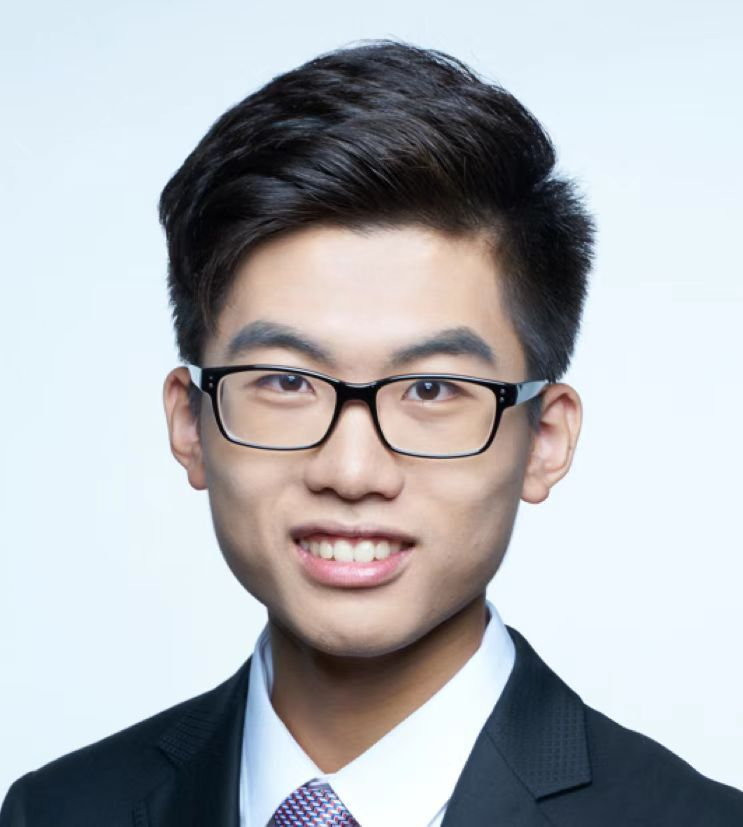
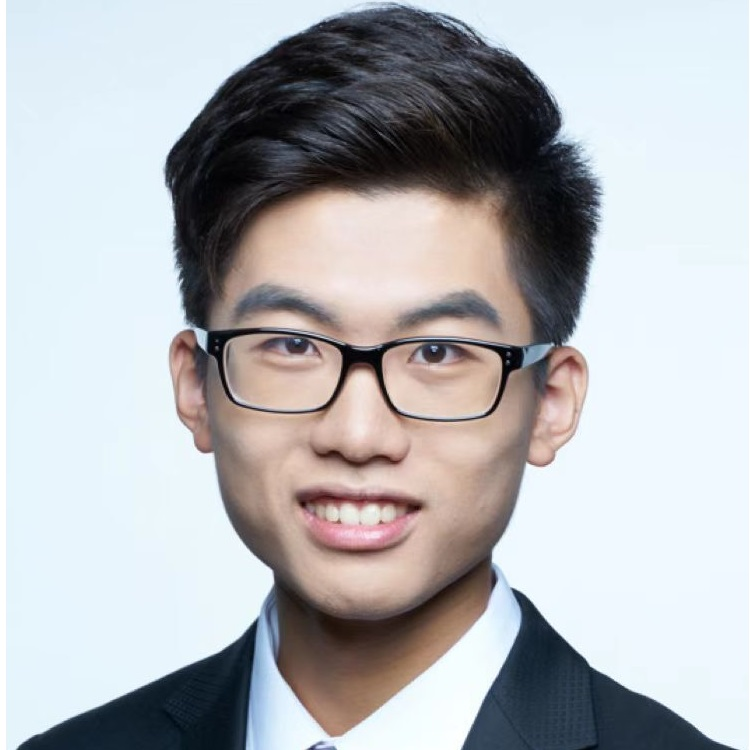
Adding Reza

diff --git a/team/_posts/2023-09-01-reza-torbati.md b/team/_posts/2023-09-01-reza-torbati.md
@@ -1,0 +1,11 @@
+---
+layout: member
+title: Reza Torbati
+level: grad
+position: MS Student
+image: /team/images/reza-torbati.jpg
+github: rezatorbati
+LinkedIn: https://www.linkedin.com/in/rezatorbati/
+---
+
+I am a computer science masters student graduating in December of 2023 specializing in computational perception and robotics. I am interested in designing algorithms that allow real-world robots to move autonomously throughout the world. My current research involves multi-robot coordination algorithms where I am helping implement our algorithms on real-world robots.
